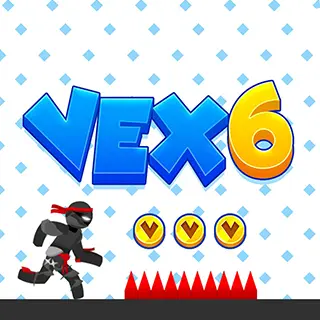
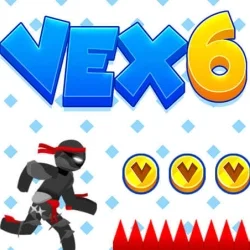
Replace SVG placeholders with real game thumbnails from unbannedgames.io

diff --git a/index.html b/index.html
@@ -894,16 +894,16 @@ const games = [
 {name:"Run 3",file:"run-3",img:"run-3.webp",cat:"Платформер"},
 {name:"1v1.LOL",file:"1v1lol",img:"1v1lol.webp",cat:"Стрелялки"},
 {name:"Death Run 3D",file:"death-run-3d",img:"death-run-3d.webp",cat:"Экшн"},
-{name:"Tabs",file:"tabs",img:"tabs.svg",cat:"Стратегия"},
-{name:"Vex 6",file:"vex-6",img:"vex-6.svg",cat:"Платформер"},
-{name:"Vex 7",file:"vex-7",img:"vex-7.svg",cat:"Платформер"},
-{name:"Gladihoppers",file:"gladihoppers",img:"gladihoppers.svg",cat:"Экшн"},
-{name:"Big Tower Tiny Square 2",file:"bt-winter-2",img:"bt-winter-2.svg",cat:"Платформер"},
-{name:"3D Moto Simulator 2",file:"3d-moto-simulator-2",img:"3d-moto-simulator-2.svg",cat:"Гонки"},
-{name:"Big Shot Boxing",file:"big-shot-boxing",img:"big-shot-boxing.svg",cat:"Спорт"},
-{name:"Subway Surfers",file:"subway-surfers",img:"subway-surfers.svg",cat:"Экшн"},
-{name:"Apple Shooter",file:"apple-shooter",img:"apple-shooter.svg",cat:"Стрелялки"},
-{name:"Gunblood",file:"gunblood",img:"gunblood.svg",cat:"Стрелялки"}
+{name:"Tabs",file:"tabs",img:"tabs.webp",cat:"Стратегия"},
+{name:"Vex 6",file:"vex-6",img:"vex-6.webp",cat:"Платформер"},
+{name:"Vex 7",file:"vex-7",img:"vex-7.webp",cat:"Платформер"},
+{name:"Gladihoppers",file:"gladihoppers",img:"gladihoppers.webp",cat:"Экшн"},
+{name:"Big Tower Tiny Square 2",file:"bt-winter-2",img:"bt-winter-2.webp",cat:"Платформер"},
+{name:"3D Moto Simulator 2",file:"3d-moto-simulator-2",img:"3d-moto-simulator-2.webp",cat:"Гонки"},
+{name:"Big Shot Boxing",file:"big-shot-boxing",img:"big-shot-boxing.webp",cat:"Спорт"},
+{name:"Subway Surfers",file:"subway-surfers",img:"subway-surfers.webp",cat:"Экшн"},
+{name:"Apple Shooter",file:"apple-shooter",img:"apple-shooter.webp",cat:"Стрелялки"},
+{name:"Gunblood",file:"gunblood",img:"gunblood.webp",cat:"Стрелялки"}
 ];
 
 const grid = document.getElementById('gamesGrid');

diff --git a/action.html b/action.html
@@ -163,8 +163,8 @@
     <a class="game-card" href="play/dreadhead-parkour.html"><div class="game-thumb"><img src="images/dreadhead-parkour.svg" alt="Dreadhead Parkour"></div><div class="game-info"><div class="game-title">Dreadhead Parkour</div></div></a>
     <a class="game-card" href="play/red-ball-4.html"><div class="game-thumb"><img src="images/red-ball-4.webp" alt="Red Ball 4"></div><div class="game-info"><div class="game-title">Red Ball 4</div></div></a>
     <a class="game-card" href="play/death-run-3d.html"><div class="game-thumb"><img src="images/death-run-3d.webp" alt="Death Run 3D"></div><div class="game-info"><div class="game-title">Death Run 3D</div></div></a>
-    <a class="game-card" href="play/gladihoppers.html"><div class="game-thumb"><img src="images/gladihoppers.svg" alt="Gladihoppers"></div><div class="game-info"><div class="game-title">Gladihoppers</div></div></a>
-    <a class="game-card" href="play/subway-surfers.html"><div class="game-thumb"><img src="images/subway-surfers.svg" alt="Subway Surfers"></div><div class="game-info"><div class="game-title">Subway Surfers</div></div></a>
+    <a class="game-card" href="play/gladihoppers.html"><div class="game-thumb"><img src="images/gladihoppers.webp" alt="Gladihoppers"></div><div class="game-info"><div class="game-title">Gladihoppers</div></div></a>
+    <a class="game-card" href="play/subway-surfers.html"><div class="game-thumb"><img src="images/subway-surfers.webp" alt="Subway Surfers"></div><div class="game-info"><div class="game-title">Subway Surfers</div></div></a>
   </div>
   <a href="index.html" class="back-home">
     <svg viewBox="0 0 24 24"><path d="M19 12H5M12 19l-7-7 7-7"/></svg>

diff --git a/shooting.html b/shooting.html
@@ -144,8 +144,8 @@
     <a class="game-card" href="play/1v1lol.html"><div class="game-thumb"><img src="images/1v1lol.webp" alt="1v1.LOL"></div><div class="game-info"><div class="game-title">1v1.LOL</div></div></a>
     <a class="game-card" href="play/aim-trainer.html"><div class="game-thumb"><img src="images/aim-trainer.svg" alt="Aim Trainer"></div><div class="game-info"><div class="game-title">Aim Trainer</div></div></a>
     <a class="game-card" href="play/dead-shot.html"><div class="game-thumb"><img src="images/dead-shot.png" alt="Dead Shot"></div><div class="game-info"><div class="game-title">Dead Shot</div></div></a>
-    <a class="game-card" href="play/apple-shooter.html"><div class="game-thumb"><img src="images/apple-shooter.svg" alt="Apple Shooter"></div><div class="game-info"><div class="game-title">Apple Shooter</div></div></a>
-    <a class="game-card" href="play/gunblood.html"><div class="game-thumb"><img src="images/gunblood.svg" alt="Gunblood"></div><div class="game-info"><div class="game-title">Gunblood</div></div></a>
+    <a class="game-card" href="play/apple-shooter.html"><div class="game-thumb"><img src="images/apple-shooter.webp" alt="Apple Shooter"></div><div class="game-info"><div class="game-title">Apple Shooter</div></div></a>
+    <a class="game-card" href="play/gunblood.html"><div class="game-thumb"><img src="images/gunblood.webp" alt="Gunblood"></div><div class="game-info"><div class="game-title">Gunblood</div></div></a>
   </div>
   <a href="index.html" class="back-home">
     <svg viewBox="0 0 24 24"><path d="M19 12H5M12 19l-7-7 7-7"/></svg>

diff --git a/sports.html b/sports.html
@@ -153,7 +153,7 @@
     <a class="game-card" href="play/duck-life-4.html"><div class="game-thumb"><img src="images/duck-life-4.webp" alt="Duck Life 4"></div><div class="game-info"><div class="game-title">Duck Life 4</div></div></a>
     <a class="game-card" href="play/curve-ball-3d.html"><div class="game-thumb"><img src="images/curve-ball-3d.webp" alt="Curve Ball 3D"></div><div class="game-info"><div class="game-title">Curve Ball 3D</div></div></a>
     <a class="game-card" href="play/archery-world-tour.html"><div class="game-thumb"><img src="images/archery-world-tour.webp" alt="Archery World Tour"></div><div class="game-info"><div class="game-title">Archery World Tour</div></div></a>
-    <a class="game-card" href="play/big-shot-boxing.html"><div class="game-thumb"><img src="images/big-shot-boxing.svg" alt="Big Shot Boxing"></div><div class="game-info"><div class="game-title">Big Shot Boxing</div></div></a>
+    <a class="game-card" href="play/big-shot-boxing.html"><div class="game-thumb"><img src="images/big-shot-boxing.webp" alt="Big Shot Boxing"></div><div class="game-info"><div class="game-title">Big Shot Boxing</div></div></a>
   </div>
   <a href="index.html" class="back-home">
     <svg viewBox="0 0 24 24"><path d="M19 12H5M12 19l-7-7 7-7"/></svg>

diff --git a/car.html b/car.html
@@ -152,7 +152,7 @@
     <a class="game-card" href="play/truck-jump.html"><div class="game-thumb"><img src="images/truck-jump.svg" alt="Truck Jump"></div><div class="game-info"><div class="game-title">Truck Jump</div></div></a>
     <a class="game-card" href="play/cluster-rush.html"><div class="game-thumb"><img src="images/cluster-rush.webp" alt="Cluster Rush"></div><div class="game-info"><div class="game-title">Cluster Rush</div></div></a>
     <a class="game-card" href="play/drive-mad.html"><div class="game-thumb"><img src="images/drive-mad.webp" alt="Drive Mad"></div><div class="game-info"><div class="game-title">Drive Mad</div></div></a>
-    <a class="game-card" href="play/3d-moto-simulator-2.html"><div class="game-thumb"><img src="images/3d-moto-simulator-2.svg" alt="3D Moto Simulator 2"></div><div class="game-info"><div class="game-title">3D Moto Simulator 2</div></div></a>
+    <a class="game-card" href="play/3d-moto-simulator-2.html"><div class="game-thumb"><img src="images/3d-moto-simulator-2.webp" alt="3D Moto Simulator 2"></div><div class="game-info"><div class="game-title">3D Moto Simulator 2</div></div></a>
   </div>
   <a href="index.html" class="back-home">
     <svg viewBox="0 0 24 24"><path d="M19 12H5M12 19l-7-7 7-7"/></svg>
